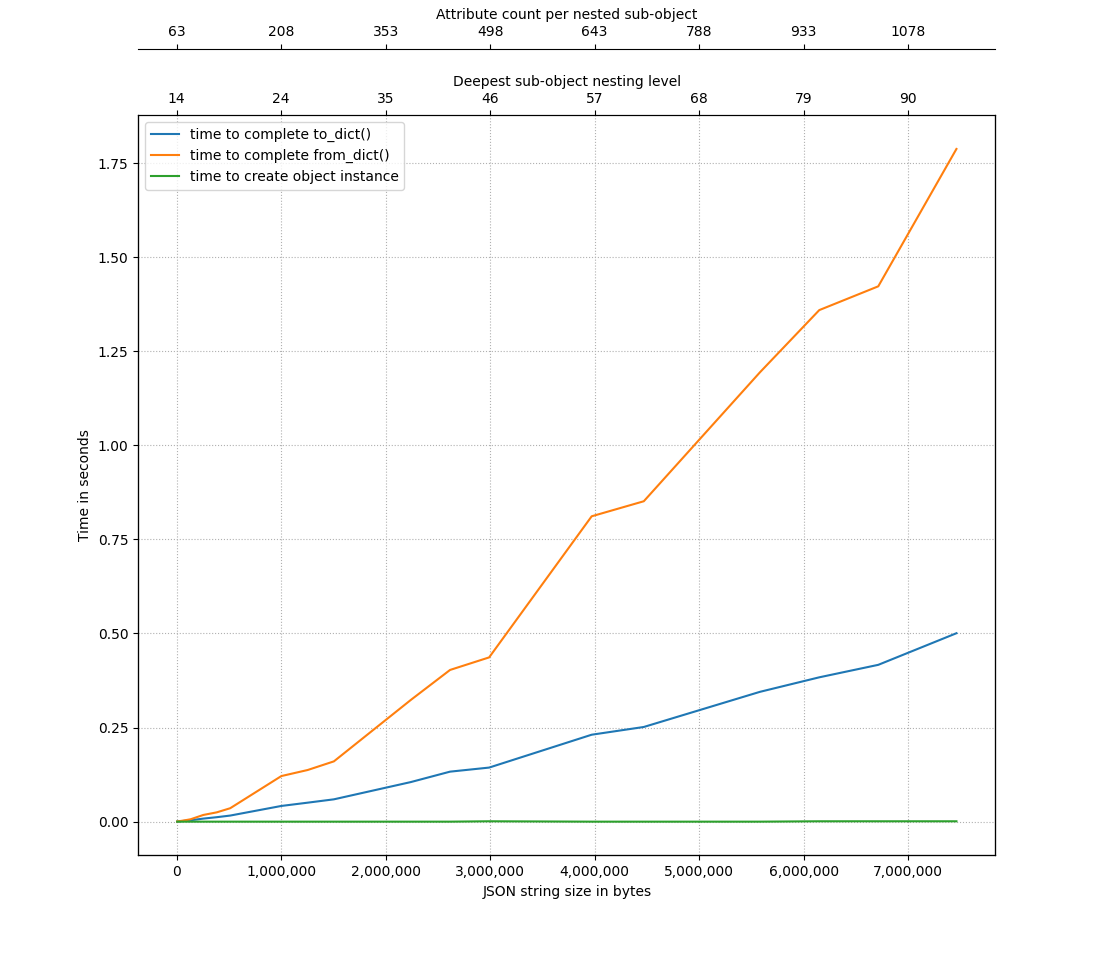
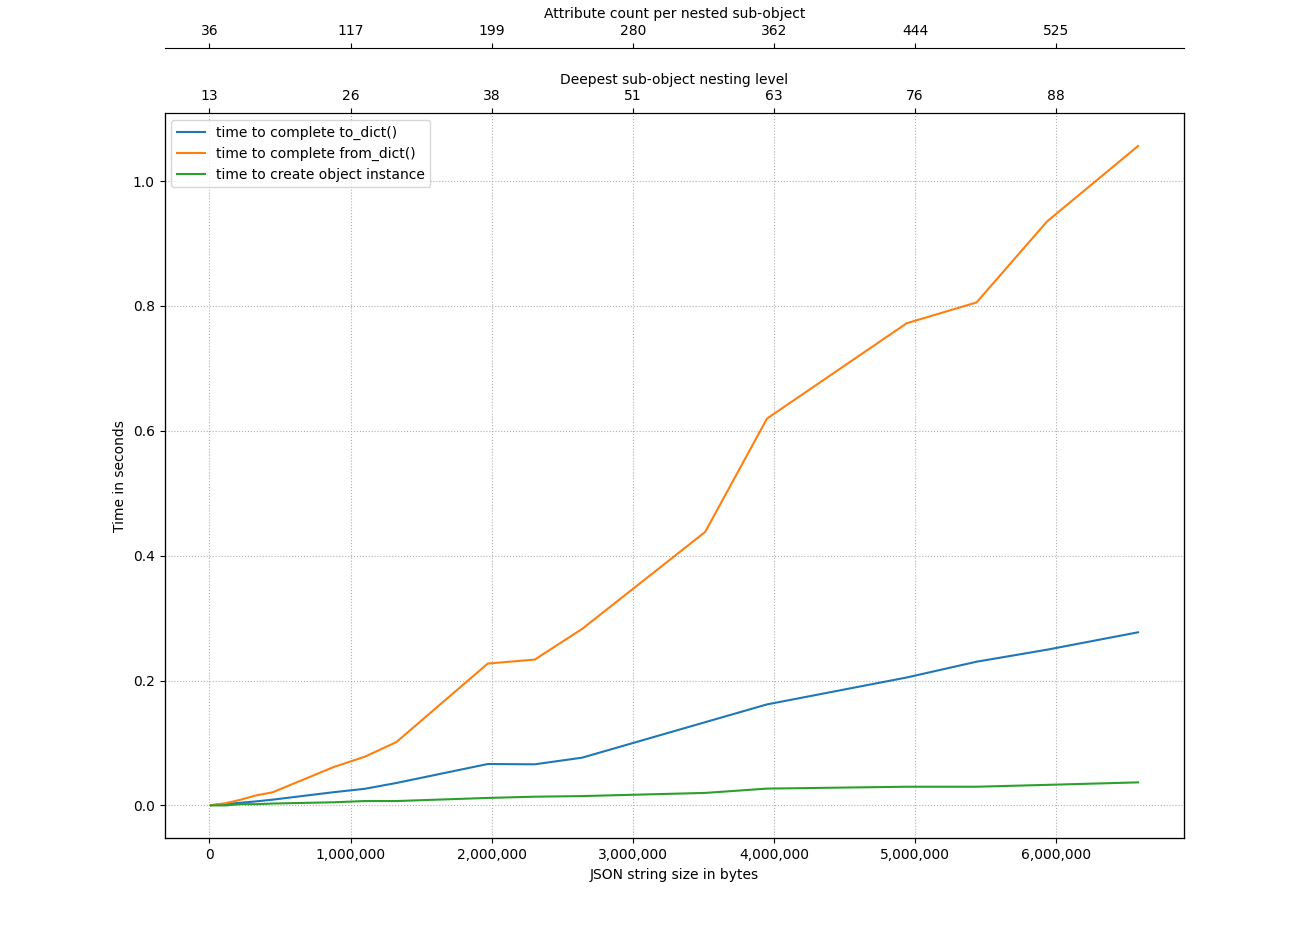
Update stress test graph image

diff --git a/docs/index.html b/docs/index.html
@@ -416,8 +416,8 @@ number, or don’t create a <code class="docutils literal notranslate"><span cla
 <h2><a class="toc-backref" href="#id14">Migrations: migrating an unversioned object</a><a class="headerlink" href="#migrations-migrating-an-unversioned-object" title="Permalink to this headline"></a></h2>
 <p>You may run into a situation where you release an unversioned object, but then
 later you need to make changes, and migrate an unversioned object to a versioned object.</p>
-<p>This can be handled simply by passing “None” to the “from_version” parameter to the “add_migration()”
-method. For example:</p>
+<p>This can be handled simply by passing “None” to the “add_migration()” method, for the
+“from_version” parameter. For example:</p>
 <div class="highlight-python notranslate"><div class="highlight"><pre><span></span><span class="n">UserConfig</span><span class="o">.</span><span class="n">add_migration</span><span class="p">(</span><span class="kc">None</span><span class="p">,</span> <span class="s2">&quot;v1.0.0&quot;</span><span class="p">,</span> <span class="n">migrate_none_to_100</span><span class="p">)</span>
 </pre></div>
 </div>
@@ -453,7 +453,7 @@ the graph (Note that measuring the <code class="docutils literal notranslate"><s
 useful, since we’ll just be measuring <code class="docutils literal notranslate"><span class="pre">to/from_dict</span></code> with additional JSON parser or file I/O overhead).</p>
 <p>Test executed on a system with an Intel Core-i7 running Debian GNU/Linux 10 (buster)
 with Linux debian 4.19.0-21-amd64.</p>
-<img alt="https://github.com/eriknyquist/versionedobj/raw/master/docs/_images/performance_graph.png" src="https://github.com/eriknyquist/versionedobj/raw/master/docs/_images/performance_graph.png" />
+<img alt="https://github.com/eriknyquist/versionedobj/raw/master/images/performance_graph.png" src="https://github.com/eriknyquist/versionedobj/raw/master/images/performance_graph.png" />
 </div>
 <div class="section" id="contributions">
 <h2><a class="toc-backref" href="#id17">Contributions</a><a class="headerlink" href="#contributions" title="Permalink to this headline"></a></h2>

diff --git a/README.rst b/README.rst
@@ -386,7 +386,7 @@ useful, since we'll just be measuring ``to/from_dict`` with additional JSON pars
 Test executed on a system with an Intel Core-i7 running Debian GNU/Linux 10 (buster)
 with Linux debian 4.19.0-21-amd64.
 
-.. image:: https://github.com/eriknyquist/versionedobj/raw/master/docs/_images/performance_graph.png
+.. image:: https://github.com/eriknyquist/versionedobj/raw/master/images/performance_graph.png
 
 Contributions
 -------------
